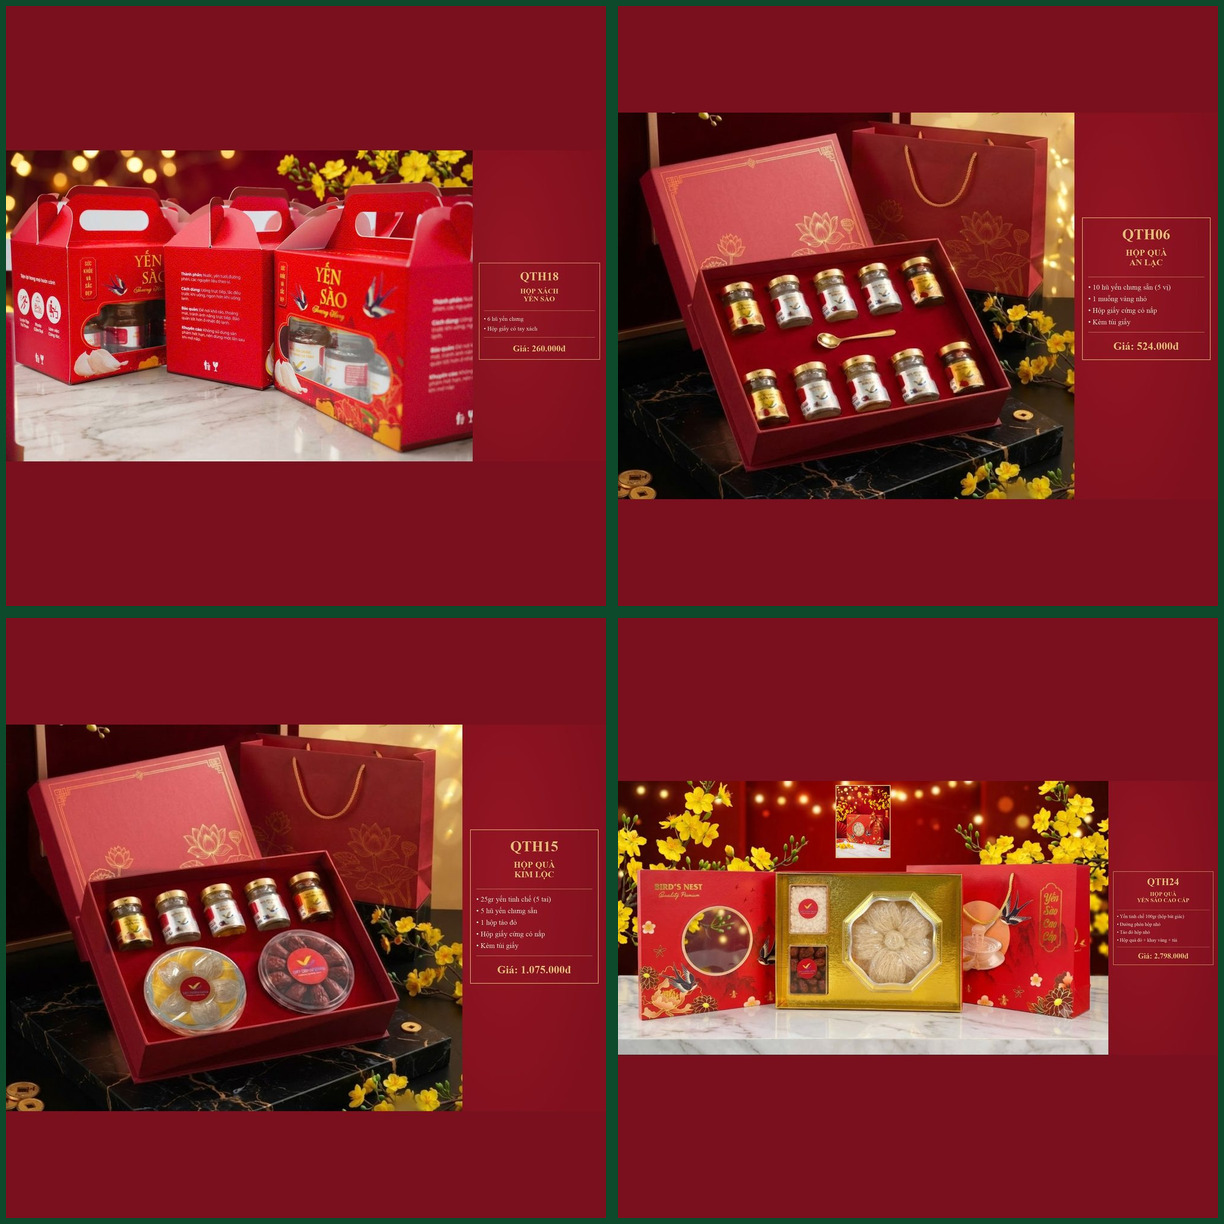
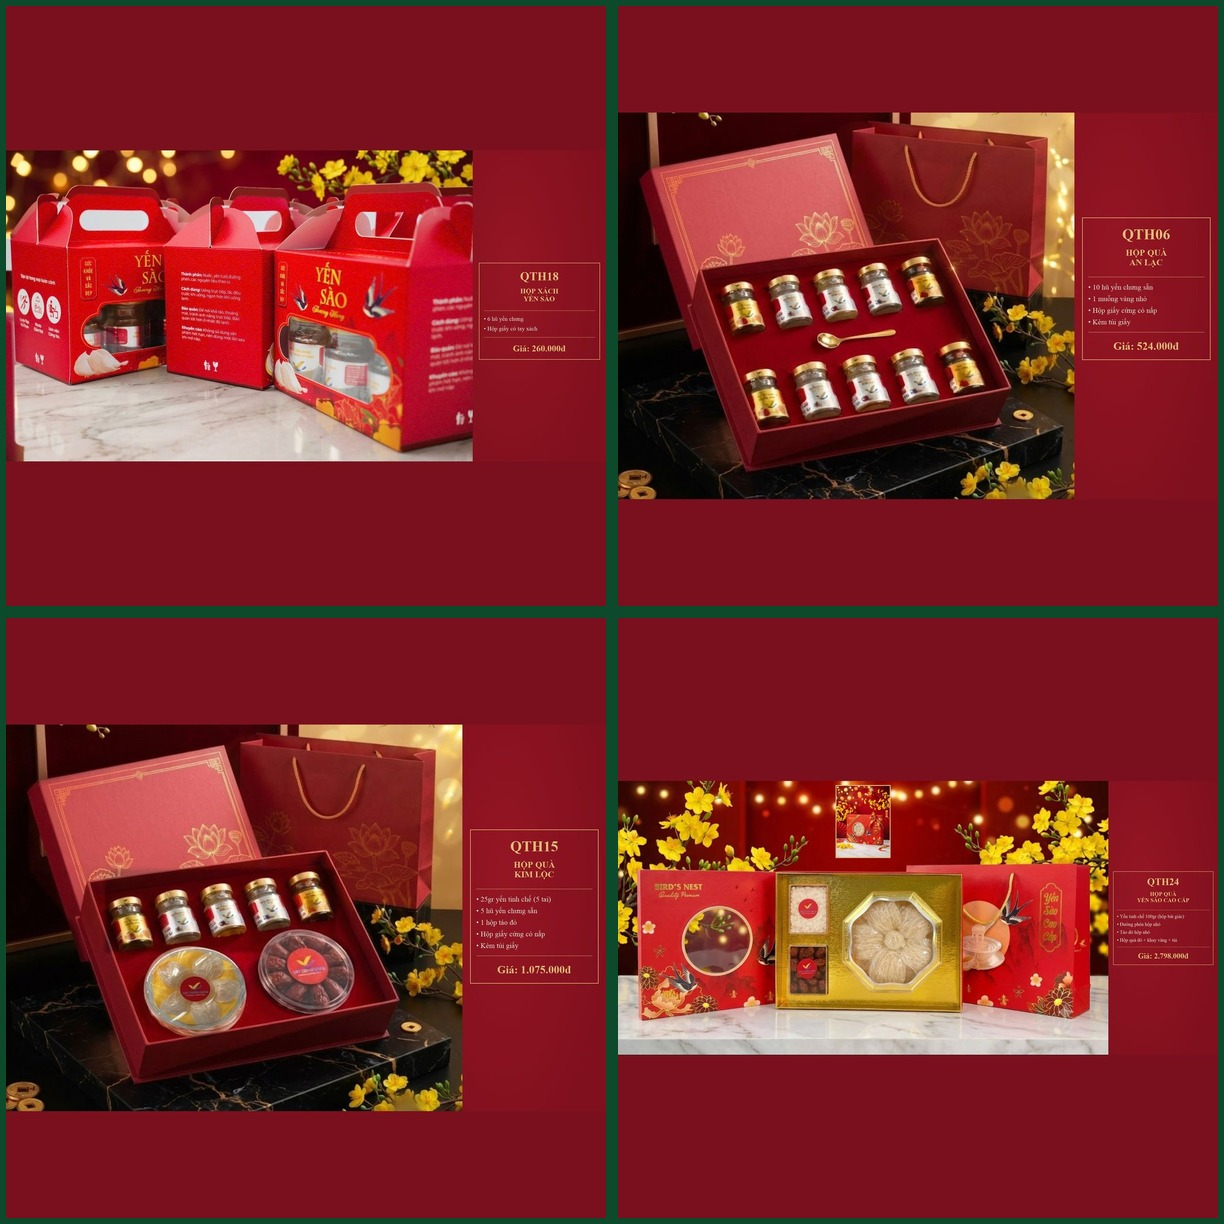
Ảnh QTH06: bỏ chữ '(5 vị)' cho đúng vị đường phèn/đông trùng
Claude-Session: https://claude.ai/code/session_01TU5LAcB3jBKXcxgRdB3mr2

Changed region(s): [[0.9935, 0.0, 1.0, 0.9935], [0.0, 0.9935, 0.9935, 1.0]]

diff --git a/qua-tet/index.html b/qua-tet/index.html
@@ -169,7 +169,7 @@
     <h2 class="grp">Từ 500.000đ đến 1 triệu <small>25 mẫu</small></h2>
     <div class="grid">
       <article class="card">
-        <img src="../images/san-pham/nho/tet/QTH06.webp?v=8" alt="Hộp Quà An Lạc QTH06 10 hũ yến chưng sẵn (vị đường phèn hoặc đông trùng hạ thảo), 1 muỗng vàng nhỏ, hộp giấy cứng, túi giấy" loading="lazy" width="480" height="480">
+        <img src="../images/san-pham/nho/tet/QTH06.webp?v=9" alt="Hộp Quà An Lạc QTH06 10 hũ yến chưng sẵn (vị đường phèn hoặc đông trùng hạ thảo), 1 muỗng vàng nhỏ, hộp giấy cứng, túi giấy" loading="lazy" width="480" height="480">
         <div class="body">
           <h3><a href="../san-pham/hop-qua-an-lac-qth06/">Hộp Quà An Lạc QTH06</a></h3>
           <p class="spec">10 hũ yến chưng sẵn (vị đường phèn hoặc đông trùng hạ thảo), 1 muỗng vàng nhỏ, hộp giấy cứng, túi giấy</p>

diff --git a/san-pham/hop-qua-an-lac-qth06/index.html b/san-pham/hop-qua-an-lac-qth06/index.html
@@ -52,7 +52,7 @@
     <p class="crumb"><a href="../../">Trang chủ</a> / <a href="../../qua-tet/">Quà Tết 2027</a> / Hộp Quà An Lạc QTH06</p>
     <div class="sp-top">
       <div class="gallery">
-        <img id="main-img" src="../../images/san-pham/tet/QTH06.webp?v=8" alt="Hộp Quà An Lạc QTH06" width="900" height="900">
+        <img id="main-img" src="../../images/san-pham/tet/QTH06.webp?v=9" alt="Hộp Quà An Lạc QTH06" width="900" height="900">
         
       </div>
       <div class="info">

diff --git a/index.html b/index.html
@@ -757,7 +757,7 @@ const SETS = [
 ];
 const DIR = "images/san-pham/";
 // Đổi số phiên bản khi thay ảnh catalog để trình duyệt tải ảnh mới thay vì ảnh cũ đã lưu.
-const IMG_V = "?v=8";
+const IMG_V = "?v=9";
 // Ảnh hiển thị dùng bản WebP (nhẹ hơn ~40%); bản .jpg gốc giữ lại cho dữ liệu SEO và chia sẻ.
 const webp = f => f.replace(/\.jpg$/, ".webp");
 const full = f => DIR + webp(f) + (/^(catalog|that|khung|tet)\//.test(f) ? IMG_V : "");
